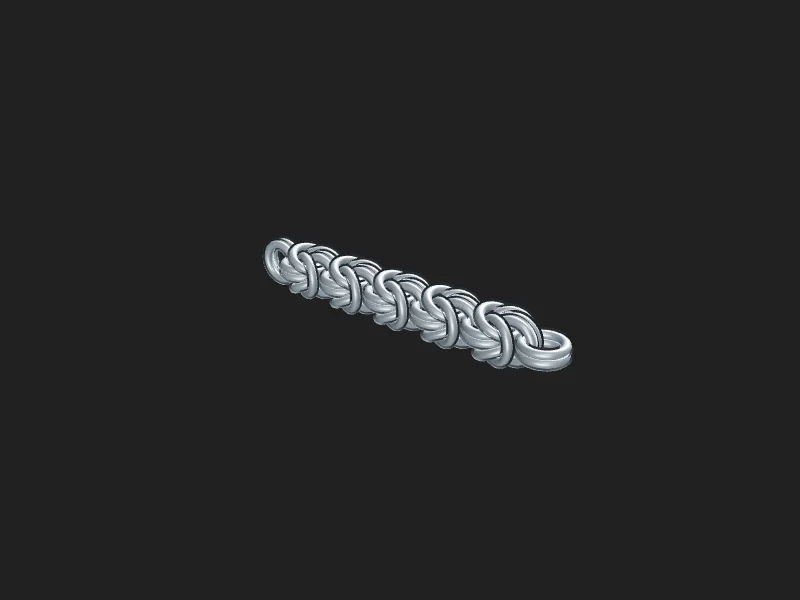
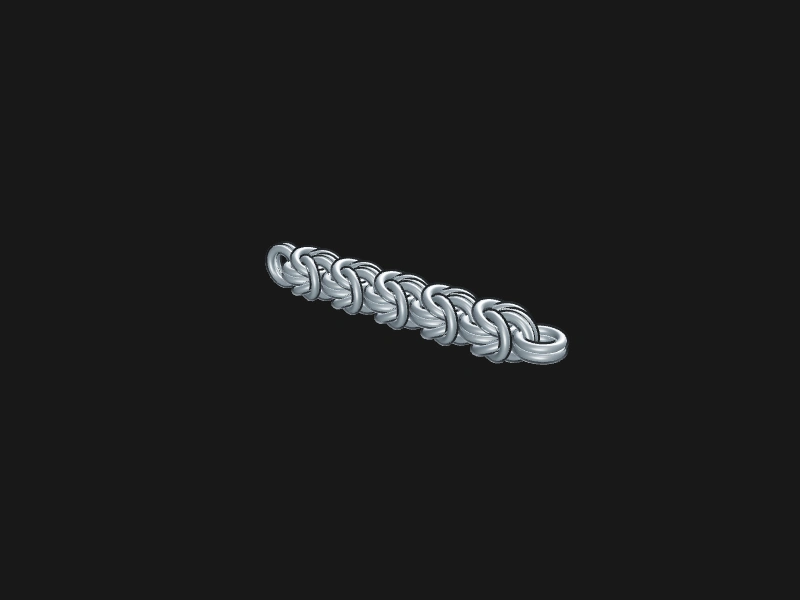
Render thumbnails at editor quality

Changed region(s): [[0.3125, 0.39, 0.7188, 0.63]]

diff --git a/src/main.jsx b/src/main.jsx
@@ -407,7 +407,7 @@ function App() {
 
 function ThumbnailPage({ model }) {
   const markReady = () => setTimeout(() => { document.documentElement.dataset.thumbnailReady = 'true' }, 700)
-  return <div className="thumbnail-capture"><Scene model={model} preview thumbnail onFramed={markReady} /></div>
+  return <div className="thumbnail-capture"><Scene model={model} thumbnail onFramed={markReady} /></div>
 }
 
 const thumbnailId = new URLSearchParams(location.search).get('thumbnail')
